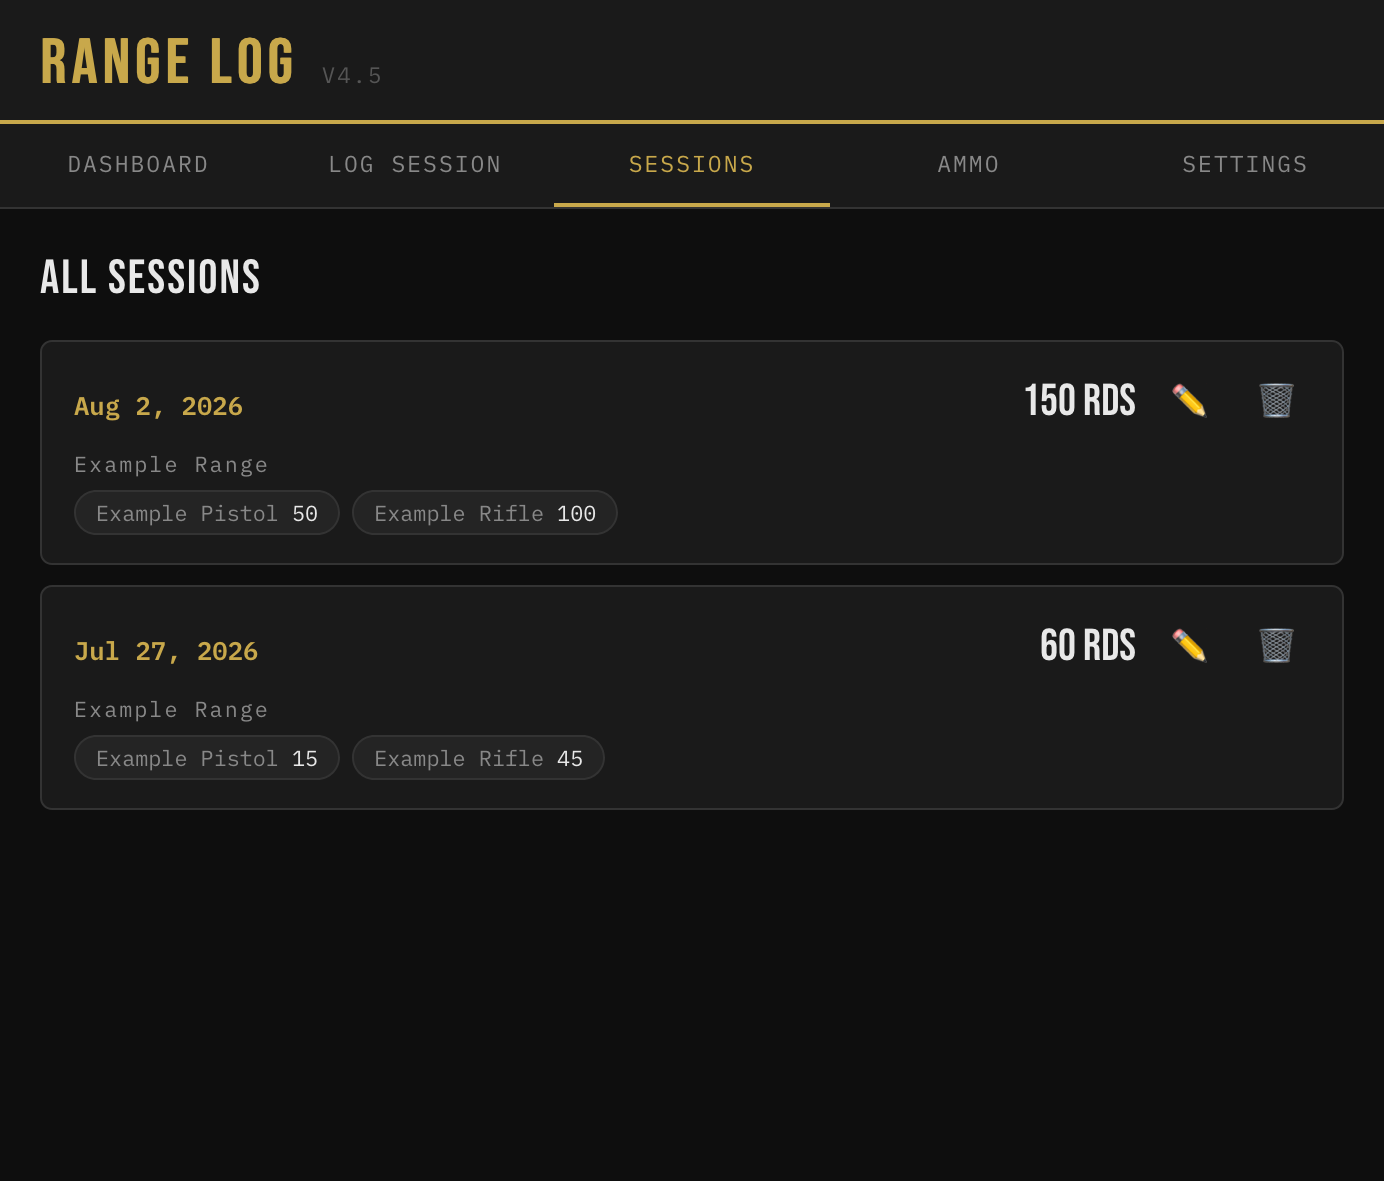
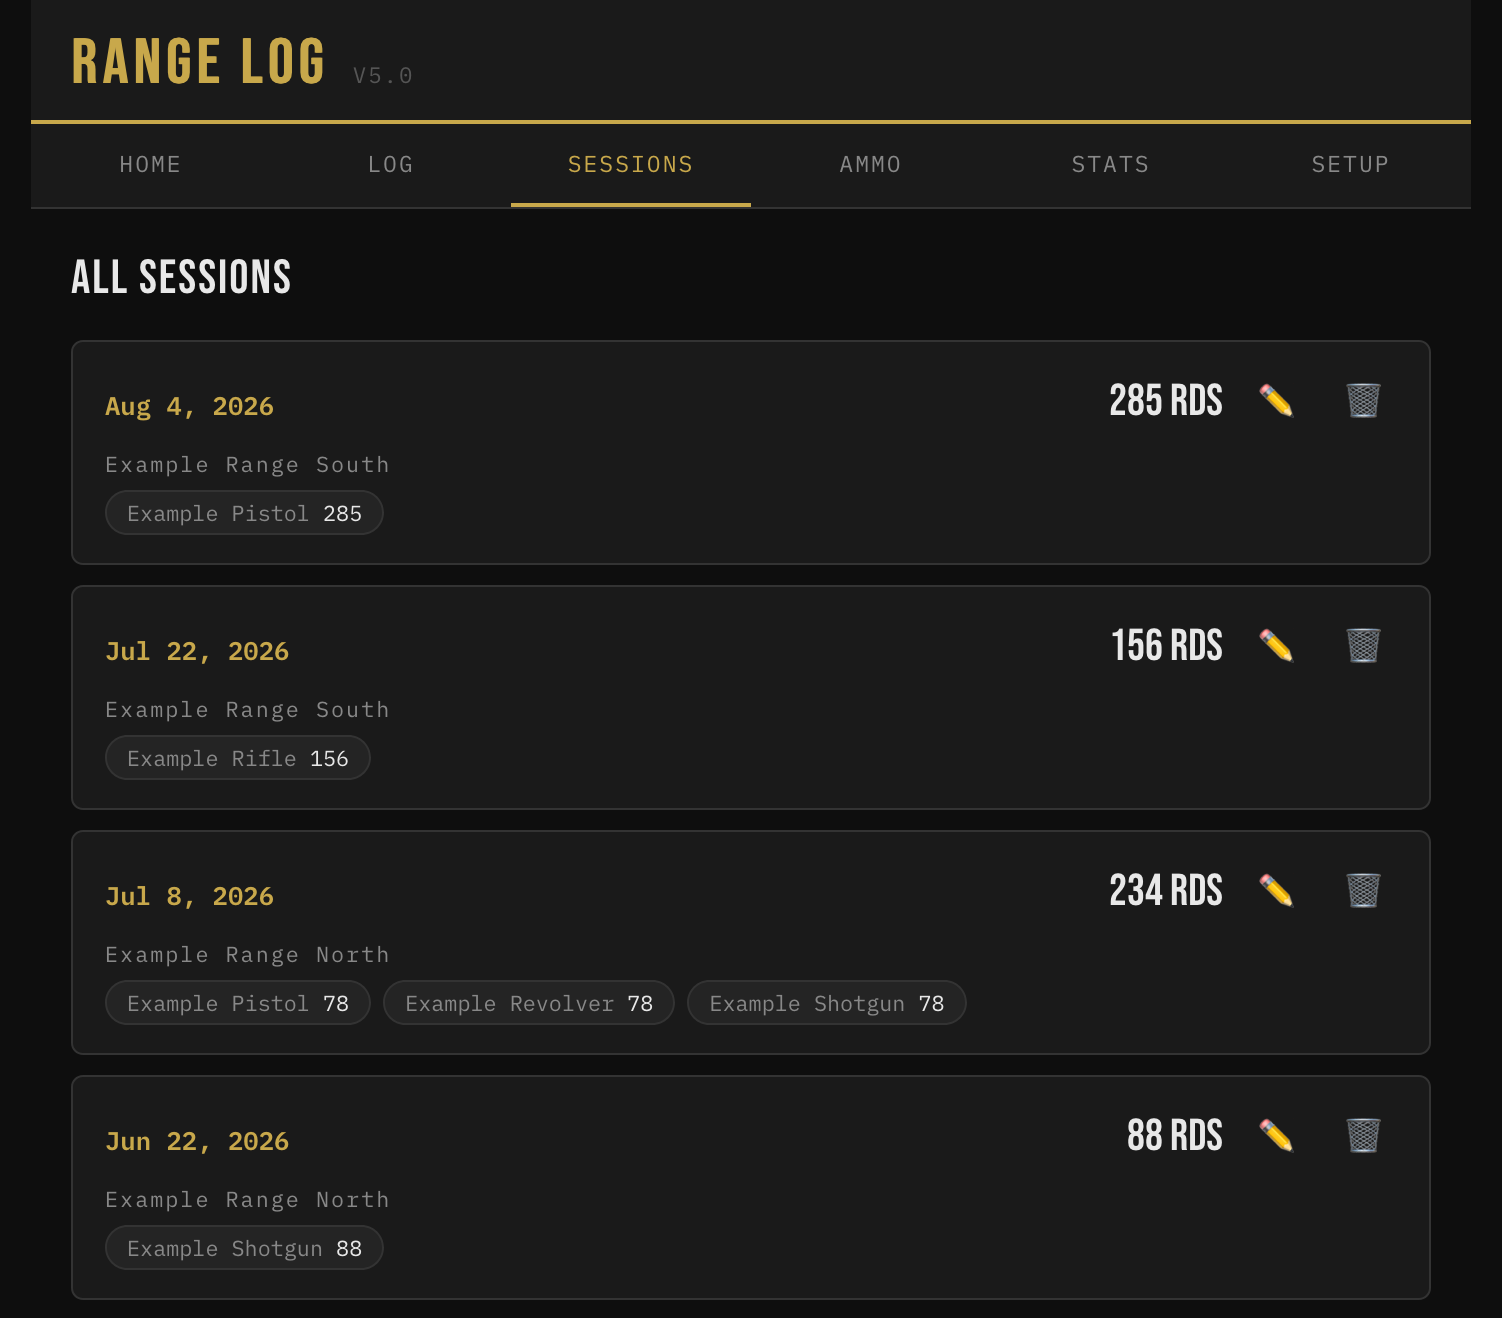
Updated README and fix package location

diff --git a/README.md b/README.md
@@ -1,5 +1,3 @@
-
-
 # Range Log
 A simple, private tracker for your range sessions — built as a lightweight web app you can install on your phone like a native app, with no account, no ads, and no data ever leaving your device.
 
@@ -9,17 +7,27 @@ A simple, private tracker for your range sessions — built as a lightweight web
 - 🧼 Cleaning history — quick / deep / detail-strip, with automatic round-count resets
 - 🎯 Zeros — distance, ammo, optic, and notes per firearm
 - 💵 Ammo purchases — cost per round, seller, stock status, with running averages
+- 📊 Stats — rounds fired, range trips, and ammo spend over time, filterable by firearm, caliber, and location
 
 All data is stored locally in your browser (nothing is sent to a server), and can be exported/imported as JSON for backup or moving between devices.
 
 ## Screenshots
-
-![Dashboard](images/dashboard.png)
+![Home](images/home.png)
 ![Sessions](images/sessions.png)
 ![Ammo](images/ammo.png)
+![Stats](images/stats.png)
+
+*(These show the app's built-in demo data — [see below](#first-launch).)*
 
 ## Access via Web
 https://shawnlefebre.github.io/range-log/
+
+## First Launch
+
+The app opens pre-loaded with a full year of sample data — firearms, sessions, cleanings, ammo purchases — so you can explore everything, including the Stats tab, before entering anything of your own. A banner on the Dashboard lets you either:
+
+- **Clear & Start Fresh** — wipes the sample data for a blank app
+- **Keep This Data** — dismisses the banner and leaves the sample entries in place, if you'd rather edit them into your real setup than start from zero
 
 ## Installing on iPhone (Home Screen App)
 
@@ -35,6 +43,7 @@ https://shawnlefebre.github.io/range-log/
 - Data does **not** sync automatically between devices (e.g. iPhone and Mac)
 - Use **Settings → Export JSON** periodically to back up your data
 - Use **Settings → Import JSON** to restore a backup or move data to another device
+- Use **Settings → Danger Zone** to permanently delete everything and start over (requires typing DELETE to confirm — there's no undo)
 
 ## Hosting Your Own Copy (GitHub Pages)
 
@@ -47,3 +56,15 @@ https://shawnlefebre.github.io/range-log/
 
 **Important:** both `index.html` and `sw.js` must sit in the same folder (repo root) for the app to auto-update correctly. If you rename or move one, update the other's references to match.
 
+## Development & Testing
+
+The app itself is a zero-dependency single file — nothing here affects anyone just using or hosting it. This section is for anyone modifying the code.
+
+A regression suite lives in `test/`, using Node's built-in test runner and `jsdom`. It covers the trickier logic: data-schema migrations, Stats filtering, weekly/monthly chart bucketing, and demo-data generation.
+
+```bash
+npm install
+npm test
+```
+
+Tests also run automatically on every push via GitHub Actions — free and unlimited for public repos, no setup required beyond the workflow file already being in the repo.
